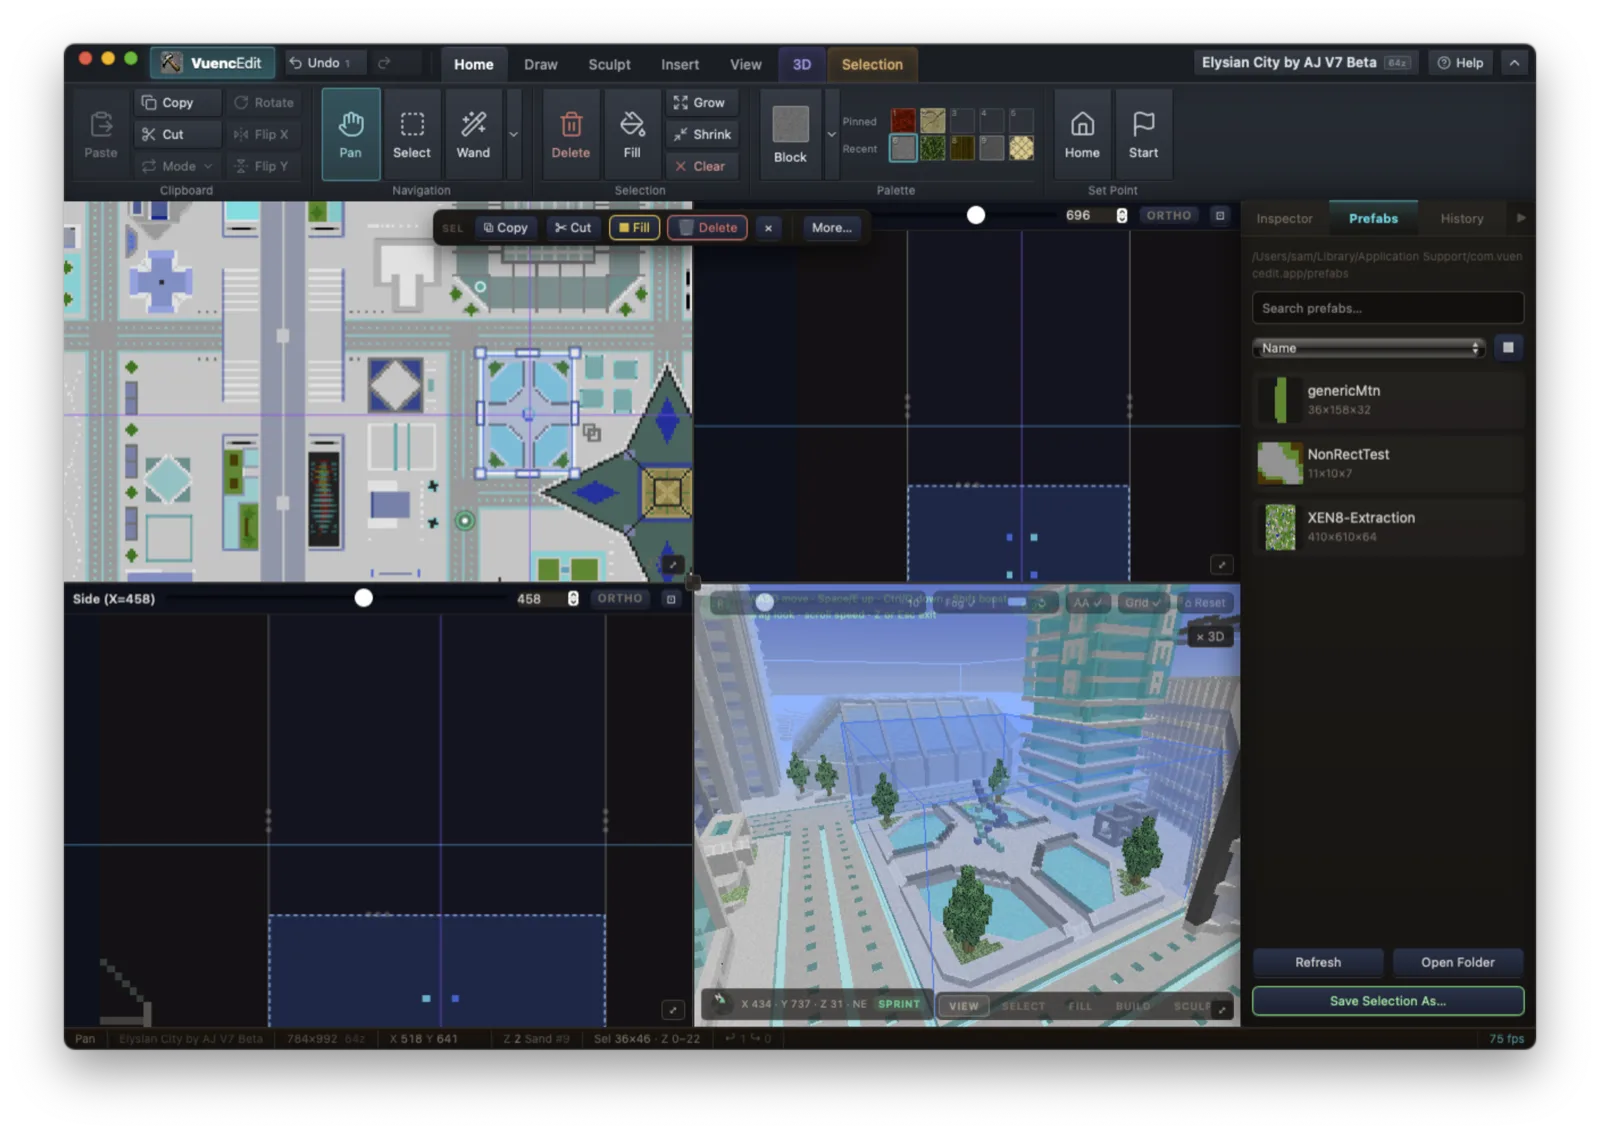
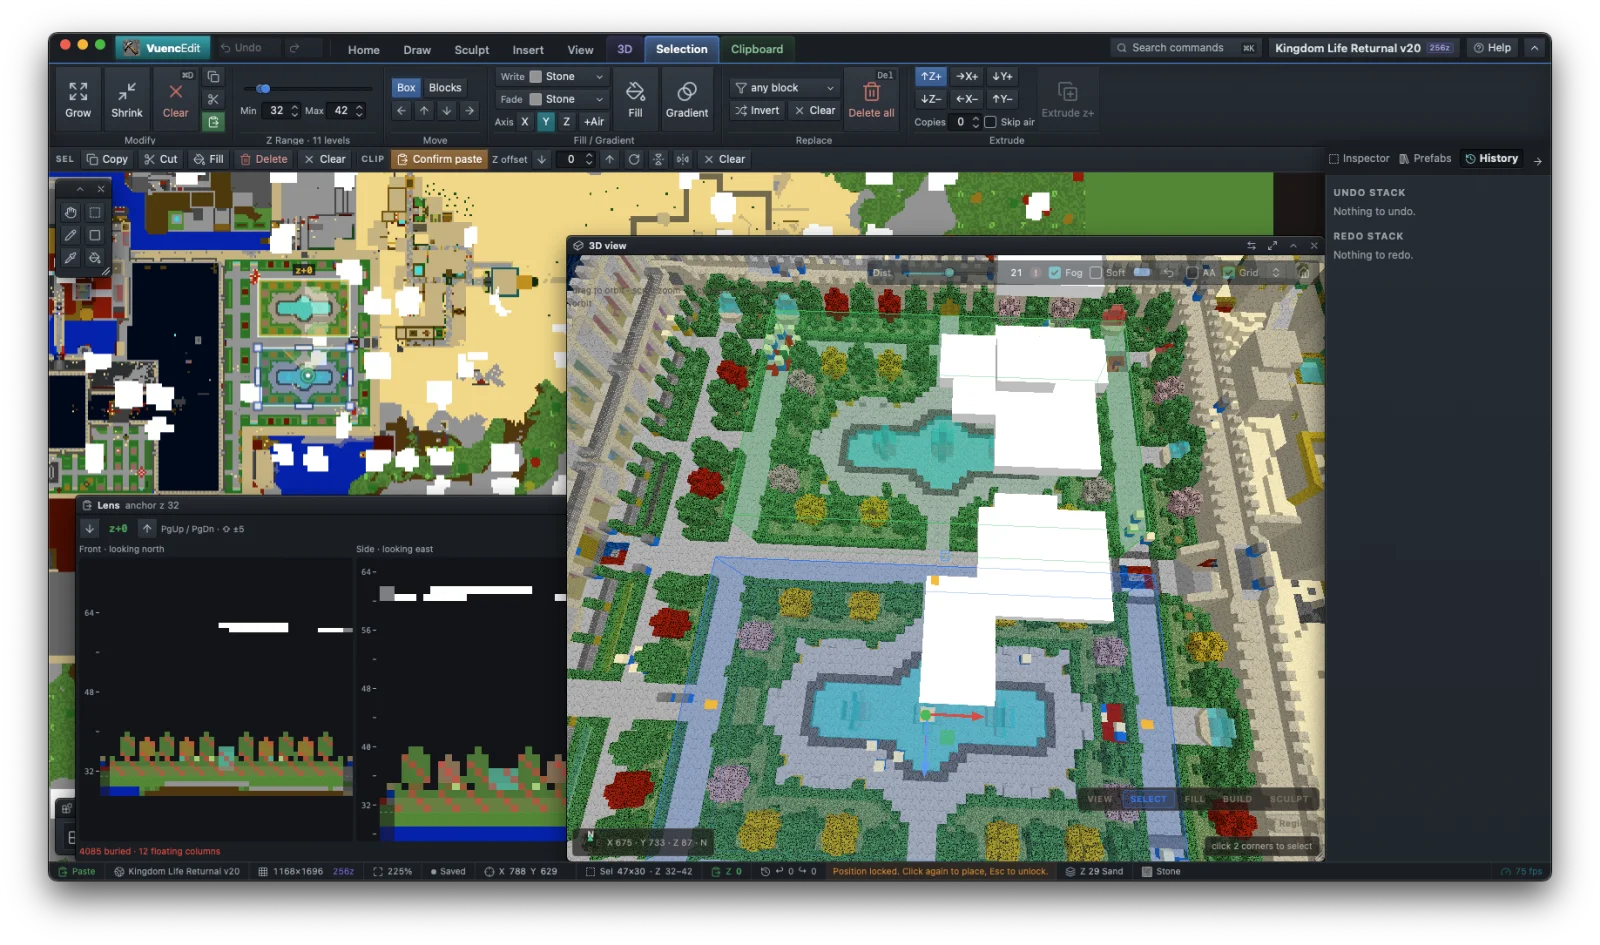
v1.0.19

diff --git a/docs/index.html b/docs/index.html
@@ -20,7 +20,7 @@ title: Home
     </div>
   </section>
 
-  {% include screenshot.html src="/assets/img/hero.webp" alt="An earlier beta of VuencEdit open on a city world: top-down map, front and side slices, a 3D pane and the prefab sidebar. The layout has since changed to a map with floating windows." width="1600" height="1134" %}
+  {% include screenshot.html src="/assets/img/hero.webp" alt="VuencEdit with a world open: top-down map with floating windows." width="1600" height="945" %}
 
   <h2>What it does</h2>
   <div class="feature-grid">
